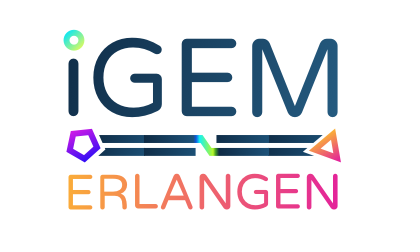
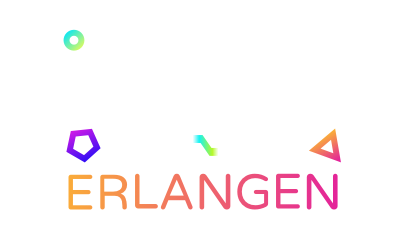
Made the footer more beautiful

diff --git a/index.html b/index.html
@@ -1033,6 +1033,21 @@
         </div>
     </div>
 
+    <style>
+    .contact {
+        background: #001323;
+        color: white;
+    }
+
+    .contact a {
+        color: #C8FFF9;
+    }
+
+    .contact a:hover {
+        color: white;
+        text-decoration: none;
+    }
+    </style>
 
     <!-- CONTACT -->
     <div class="contact">
@@ -1041,18 +1056,18 @@
 
             <div class="row">
                 <div class="col-lg-8">
-                    <div><img src="assets/images/igem_erlangen.png" style="height: 150px;" /></div>
+                    <a href="mailto:project-igem@fau.de"><img src="assets/images/igem_erlangen.png" style="margin-left: -26px; height: 150px; margin-right: -30px;" />
 
-                    <a href="mailto:project-igem@fau.de"><i class="fa fa-envelope"></i> project-igem@fau.de</a>
+                    <i class="fa fa-envelope"></i> project-igem@fau.de</a>
 
                 </div>
                 <div class="col-lg-4">
                     Social Media
-                    <ul class="social-media">
-                        <li><a href="#" class="fab fa-facebook">&nbsp;</a></li>
-                        <li><a href="#"><i class="fab fa-instagram">&nbsp;</i></a></li>
-                        <li><a href="#"><i class="fab fa-twitter">&nbsp;</i></a></li>
-                        <li><a href="#"><i class="fab fa-youtube">&nbsp;</i></a></li>
+                    <ul class="social-media" style="margin-left: -35px;">
+                        <li><a href="https://www.facebook.com/igemErlangen/" class="fab fa-facebook">&nbsp;</a></li>
+                        <li><a href="https://www.instagram.com/igem.erlangen"><i class="fab fa-instagram">&nbsp;</i></a></li>
+                        <li><a href="https://twitter.com/igem_erlangen"><i class="fab fa-twitter">&nbsp;</i></a></li>
+                        <li><a href="https://www.youtube.com/channel/UCxT11JmhRH62aBn-HZxGhQA"><i class="fab fa-youtube">&nbsp;</i></a></li>
                     </ul>
                 </div>
             </div>
